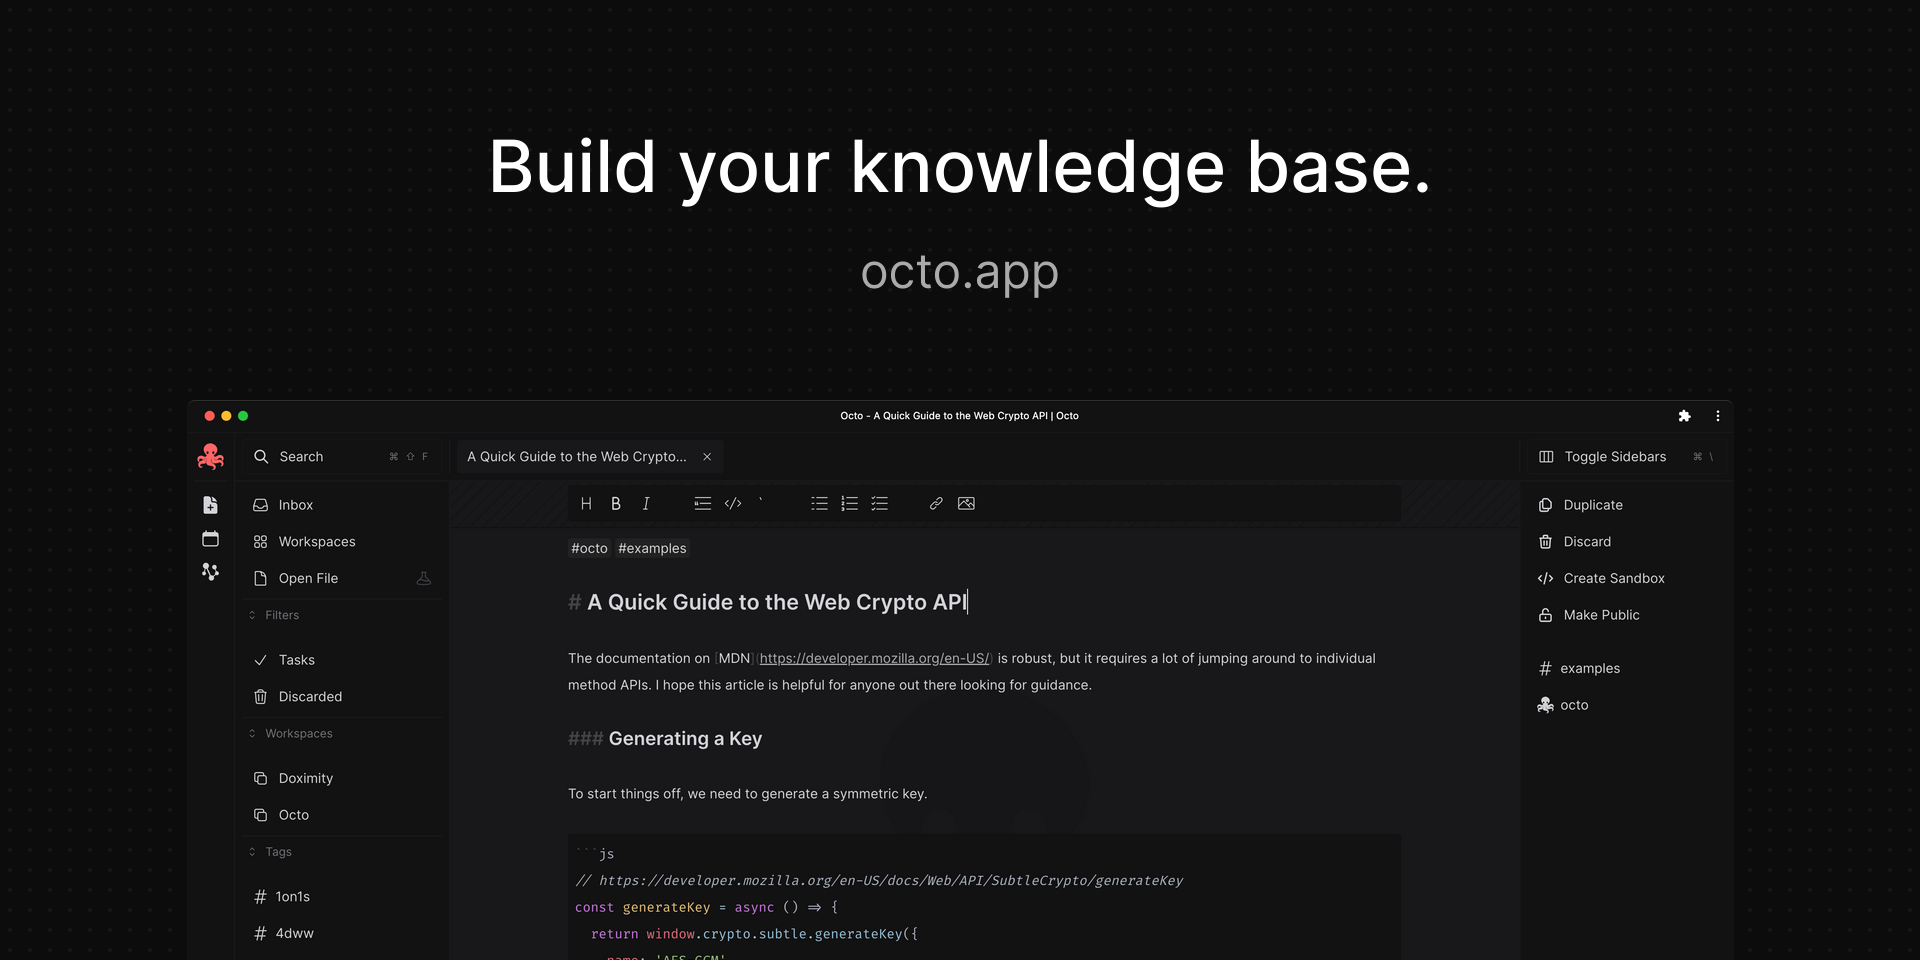
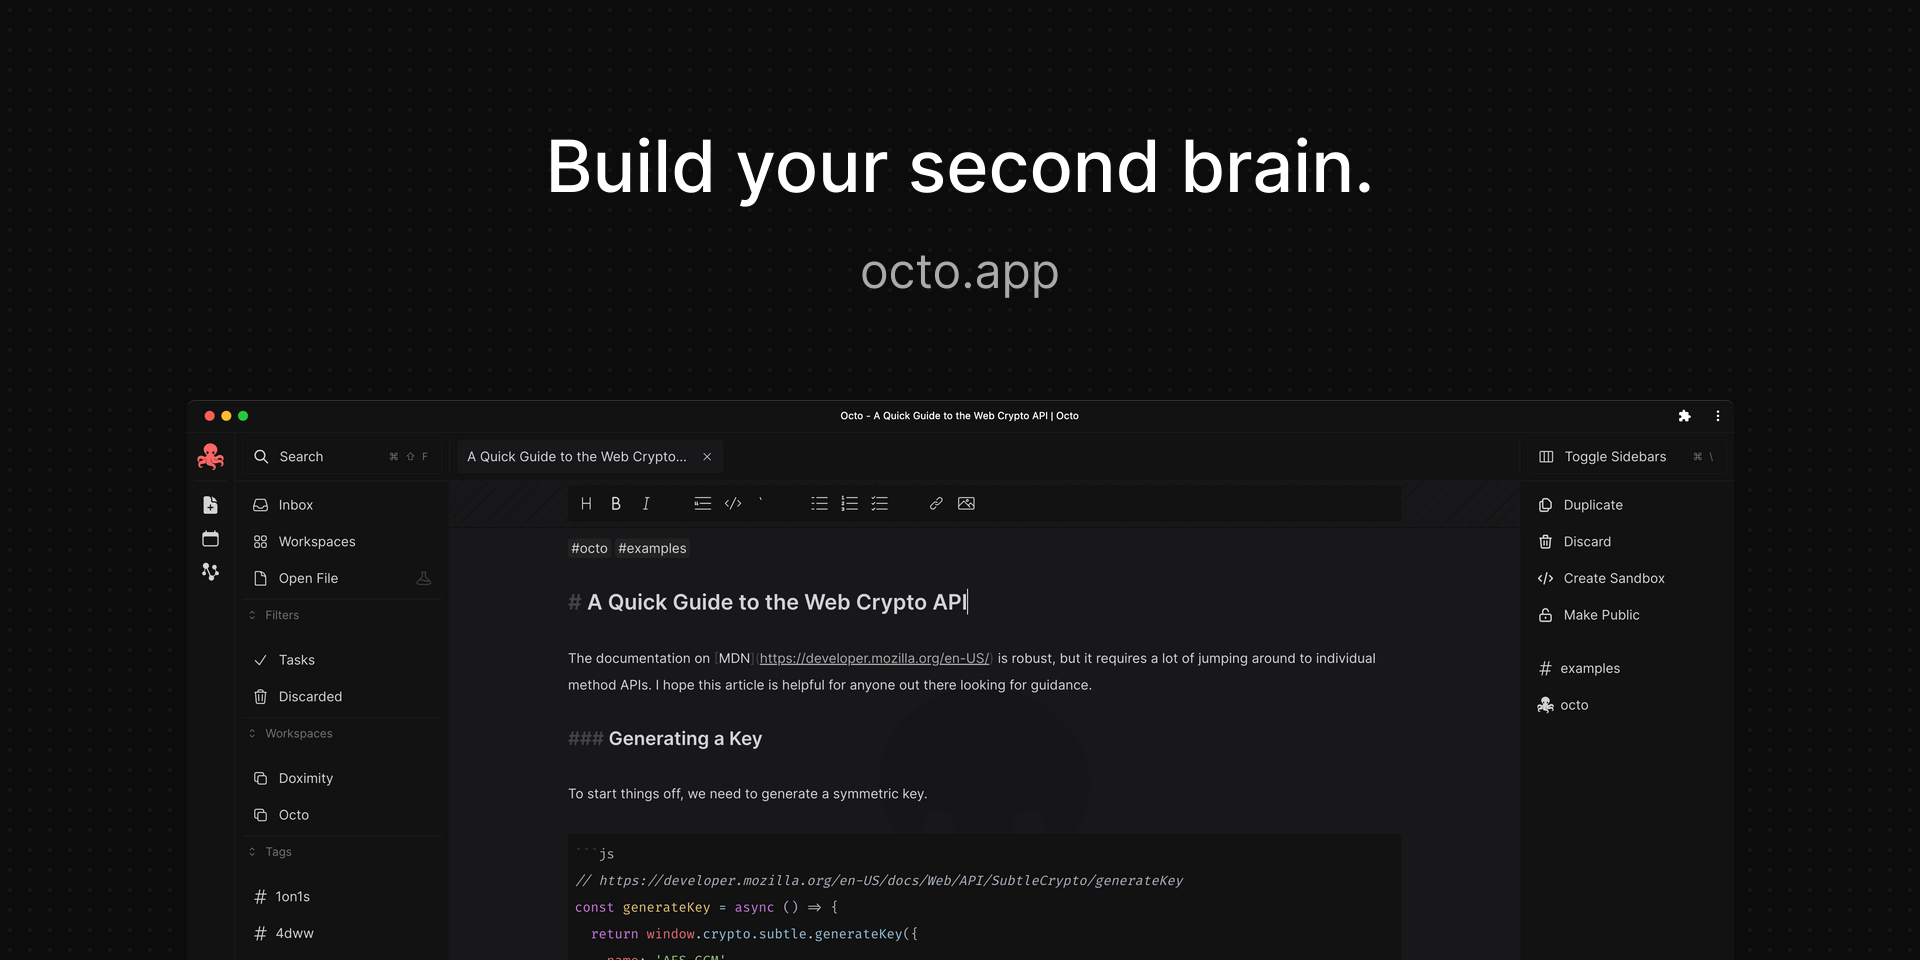
Update tagline

Changed region(s): [[0.25, 0.125, 0.75, 0.2188]]

diff --git a/index.html b/index.html
@@ -7,14 +7,14 @@
 
     <meta property="og:description" content="Access your information anywhere, anytime" />
     <meta property="og:image" content="https://octo.app/img/og.png" />
-    <meta property="og:title" content="Build your knowledge base | Octo" />
+    <meta property="og:title" content="Build your second brain | Octo" />
     <meta property="og:url" content="https://octo.app" />
 
     <meta name="twitter:card" content="summary_large_image" />
     <meta name="twitter:site" content="@writewithocto" />
     <meta name="twitter:creator" content="@voraciousdev" />
 
-    <title>Build your knowledge base | Octo</title>
+    <title>Build your second brain | Octo</title>
 
     <link rel="icon" href="<%= BASE_URL %>img/icons/favicon.ico">
     <link rel="preconnect" href="https://fonts.googleapis.com">
@@ -31,7 +31,7 @@
   </head>
   <body class="flex flex-col flex-grow text-gray-900 dark:text-gray-300 bg-white dark:bg-gray-900">
     <noscript>
-      <p>Build your knowledge base</p>
+      <p>Build your second brain</p>
     </noscript>
     <!-- #app is replaced by App.vue -->
     <div id="app"></div>

diff --git a/pages/home.vue b/pages/home.vue
@@ -5,7 +5,7 @@
         <div class="flex flex-col gap-32 lg:gap-40 py-10">
           <div class="flex flex-col text-center gap-8">
             <TheLogo class="h-32 lg:h-48 text-brand" />
-            <h1 class="text-4xl lg:text-6xl font-semibold">Build <span class="underline underline-offset-8 decoration-2">your</span> knowledge base.</h1>
+            <h1 class="text-4xl lg:text-6xl font-semibold">Build <span class="underline underline-offset-8 decoration-2">your</span> second brain.</h1>
           </div>
           <div class="flex flex-col gap-4 items-center text-center">
             <router-link v-if="user" :to="{ path: '/docs/new' }" class="button-base bg-brand transition shadow whitespace-nowrap justify-center gap-3 text-black text-xl py-2 px-8 hover:scale-125">

diff --git a/src/common/title.js b/src/common/title.js
@@ -1,4 +1,4 @@
-export const DEFAULT_TITLE = "Build your knowledge base"
+export const DEFAULT_TITLE = "Build your second brain"
 
 export const setTitle = (title) => {
   document.title = `${title ? title : DEFAULT_TITLE} | Octo`

diff --git a/README.md b/README.md
@@ -3,7 +3,7 @@
 
 # Octo
 
-Build your knowledge base at [octo.app](https://octo.app)
+Build your second brain at [octo.app](https://octo.app)
 
 [![screenshot](public/img/screenshot.png)](https://octo.app)
 
